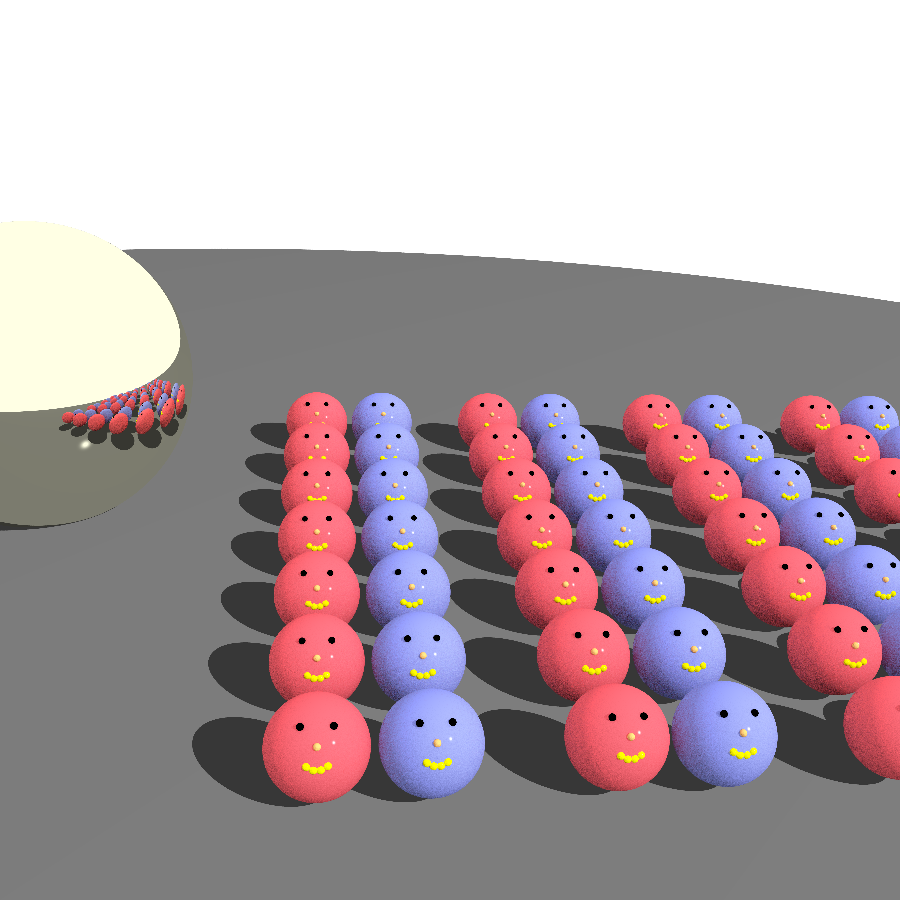
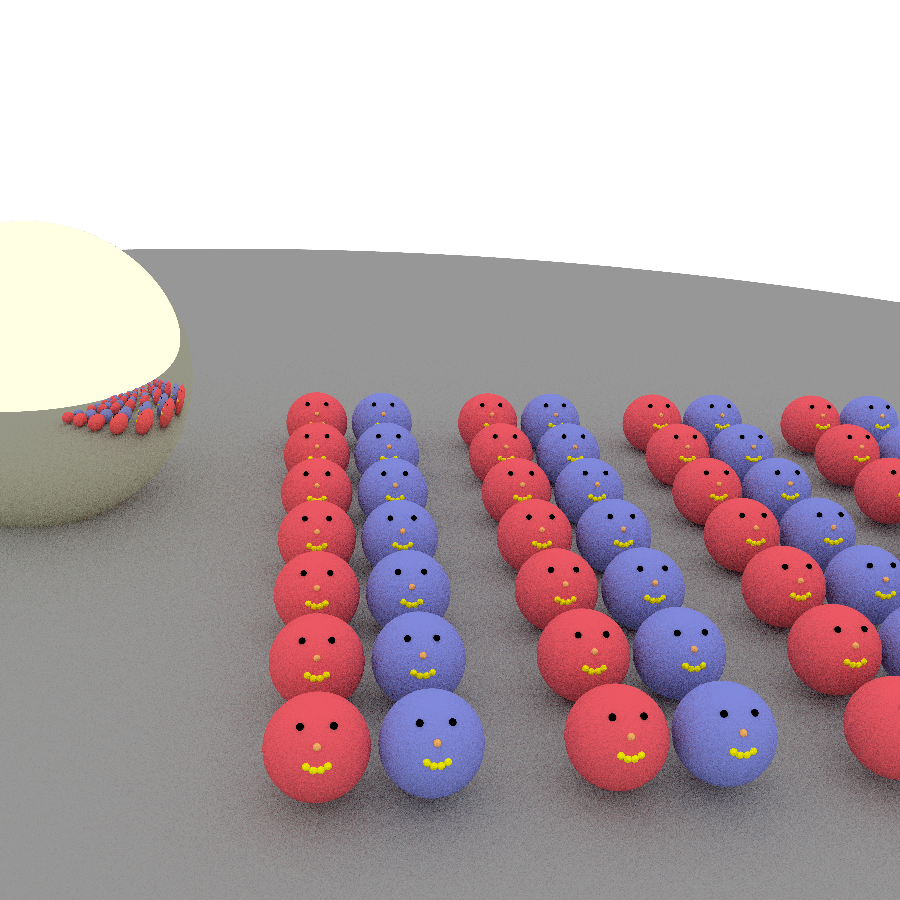
Aenderung Aufgabe6

diff --git a/src/cgg/a06/Main.java b/src/cgg/a06/Main.java
@@ -24,7 +24,7 @@ public class Main {
 
     //Licht und Kamera erstellen
     ArrayList<Lichtquelle> licht = new ArrayList<>();
-    licht.add(new Richtungslichtquelle(vec3(10,-10,10), white));
+    //licht.add(new Richtungslichtquelle(vec3(10,-10,10), white));
     Mat44 transformationKamera = multiply(move(vec3(0,-18,20.5)),rotate(vec3(1,0,0),22), rotate(vec3(0,1,0),-7));
     Lochkamera kamera = new Lochkamera(Math.PI/4, width, height, transformationKamera);
 
@@ -65,14 +65,14 @@ public class Main {
     Group groupSpiegel = new Group(new Kugel(vec3(-11,-4,-22), 6, spiegel));
 
     Group alleGesichter = new Group(gesichter);
-    Kugel hinterKugel = new Kugel(vec3(0,1001,-30), 1000, new PhongMaterial(color(0.35), white, 1000.0));
+    Kugel hinterKugel = new Kugel(vec3(0,1001,-30), 1000, new DiffusStreuung(new ConstantColor(color(0.35)), new ConstantColor(white), new ConstantColor(color(1000.0))));//new PhongMaterial(color(0.35), white, 1000.0));
     Group hintergrund = new Group(hinterKugel, groupSpiegel, alleGesichter);
     Group welt = new Group(hintergrund);
     
     Image image = new Image(width, height);
-    RayTracer rayTracer = new RayTracer(kamera, welt, licht);
-    image.sample(rayTracer); //setzt Pixelfarben, ohne StratifiedSampling
-    //image.sample(new StratifiedSampling(rayTracer)); //setzt Pixelfarben, mit StratifiedSampling
+    RayTracer rayTracer = new RayTracer(kamera, welt, licht, white);
+    //image.sample(rayTracer); //setzt Pixelfarben, ohne StratifiedSampling
+    image.sample(new StratifiedSampling(rayTracer)); //setzt Pixelfarben, mit StratifiedSampling
     image.writePng("a06-image"); //erstellt Bild
 
     //Berechnung der gebrauchten Zeit

diff --git a/src/cgg/a02/RayTracer.java b/src/cgg/a02/RayTracer.java
@@ -9,7 +9,7 @@ import cgg.a05.Shape;
 import tools.*;
 import static tools.Functions.*;
 
-public record RayTracer(Lochkamera camera, Shape kugeln, ArrayList<Lichtquelle> lichtquelle) implements Sampler {
+public record RayTracer(Lochkamera camera, Shape kugeln, ArrayList<Lichtquelle> lichtquelle, Color emissionHintergrund) implements Sampler {
 
     /**
      * gibt die Farbe fuer ein bestimmtes Pixel zurueck
@@ -42,7 +42,7 @@ public record RayTracer(Lochkamera camera, Shape kugeln, ArrayList<Lichtquelle> 
 
         Hit hit = kugeln.intersect(ray); 
         if(hit == null) {
-            return white; //Standardhintergrundfarbe bei keinem Treffer
+            return emissionHintergrund; //Standardhintergrundfarbe bei keinem Treffer
         }
 
         Color direct = shade(hit, ray); //Farbe aus Phong Modell ohne ambient

diff --git a/src/cgg/a05/Main.java b/src/cgg/a05/Main.java
@@ -58,7 +58,7 @@ public class Main {
     Group welt = new Group(hintergrund);
     
     var image = new Image(width, height);
-    RayTracer rayTracer = new RayTracer(kamera, welt, licht);
+    RayTracer rayTracer = new RayTracer(kamera, welt, licht, white);
     //image.sample(rayTracer); //setzt Pixelfarben, ohne StratifiedSampling
     image.sample(new StratifiedSampling(rayTracer)); //setzt Pixelfarben, mit StratifiedSampling
     image.writePng("a05-image"); //erstellt Bild
